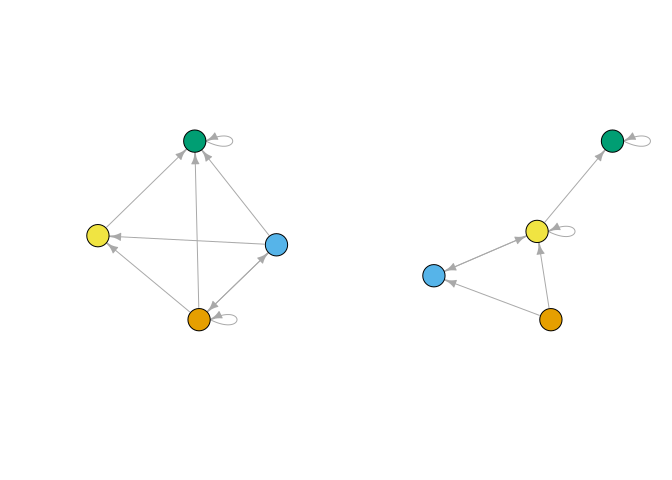
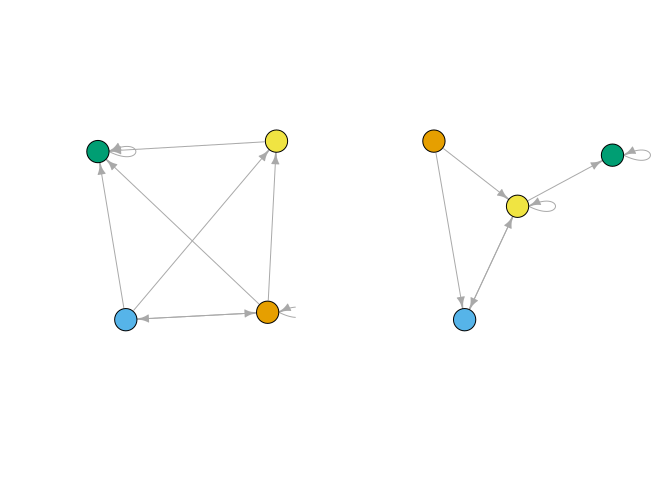
Initial version of degree connections complete.  Difficult to see edges between blocks in reduced network.

diff --git a/README.md b/README.md
@@ -5,19 +5,16 @@
 
 I’m updating `concorR` to generate a method for making reduced networks
 that connects blocks based on *degree* rather than just *density*.
-Functions that are being updated are: - `make_blk` in the
-`CONCOR_blockmodeling.R` file. - `make_reduced` in the
-`CONCOR_blockmodeling.R` file.
+Functions that are being updated are:
+
+  - `make_blk` in the `CONCOR_blockmodeling.R` file.
+  - `make_reduced` in the `CONCOR_blockmodeling.R` file.
+
+<!-- end list -->
 
 ``` r
 # install.packages("devtools")
 devtools::install_github("sfwolfphys/concorR")
-
-## Load the package
-library(concorR)
-
-## Update to local versions of the important functions:
-source('./R/CONCOR_blockmodeling.R')
 ```
 
 ## Example
@@ -26,7 +23,13 @@ This is a basic example which shows a common task: using CONCOR to
 partition a single adjacency matrix.
 
 ``` r
+## Load the package
 library(concorR)
+
+## Update to local versions of the important functions:
+source('./R/CONCOR_blockmodeling.R')
+
+## Simple Example
 a <- matrix(c(0, 0, 0, 0, 1, 1, 0, 1, 0, 1, 1, 1, 0, 1, 1, 
                1, 0, 1, 0, 1, 1, 0, 0, 0, 0), ncol = 5)
 rownames(a) <- letters[1:5]
@@ -97,6 +100,32 @@ plot_reduced(r_igraph)
 ```
 
 <img src="man/figures/README-unnamed-chunk-3-1.png" width="100%" />
+
+### Additional parameters for making the reduced network
+
+In the prior example, the reduced network was created using an edge
+density threshold. For some applications, it may be preferred to use a
+degree-based measure instead. Therefore if the average degree from block
+a to block b is greater than the average outdegree of the network, we
+will draw the edge in.
+
+``` r
+(r_mat_deg <- make_reduced(list(a), nsplit = 1, connect = 'degree'))
+#> $reduced_mat
+#> $reduced_mat[[1]]
+#>         Block 1 Block 2
+#> Block 1       0       0
+#> Block 2       1       0
+#> 
+#> 
+#> $deg
+#> [1] 2.4
+r_deg_igraph <- make_reduced_igraph(r_mat_deg$reduced_mat[[1]])
+
+plot_reduced(r_deg_igraph)
+```
+
+<img src="man/figures/README-unnamed-chunk-4-1.png" width="100%" />
 
 ## Example 2: Krackhardt high-tech managers
 
@@ -195,6 +224,42 @@ plot_reduced(gboth[[2]])
 ```
 
 <img src="man/figures/README-krackhardt-reduced-multi-1.png" width="100%" />
+
+``` r
+par(mfrow = c(1,1))
+```
+
+### Reduced networks using degree criterion
+
+``` r
+red1d <- make_reduced(list(m1), nsplit = 2, connect='degree')
+red2d <- make_reduced(list(m2), nsplit = 2, connect='degree')
+
+gred1d <- make_reduced_igraph(red1d$reduced_mat[[1]])
+gred2d <- make_reduced_igraph(red2d$reduced_mat[[1]])
+
+par(mfrow = c(1, 2))
+plot_reduced(gred1d)
+plot_reduced(gred2d)
+```
+
+<img src="man/figures/README-krackhardt-reduced-single-degree-1.png" width="100%" />
+
+``` r
+par(mfrow = c(1,1))
+```
+
+with the multi-relation version:
+
+``` r
+redbothd <- make_reduced(list(m1, m2), nsplit = 2, connect='degree')
+gbothd <- lapply(redbothd$reduced_mat, make_reduced_igraph)
+par(mfrow = c(1, 2))
+plot_reduced(gbothd[[1]])
+plot_reduced(gbothd[[2]])
+```
+
+<img src="man/figures/README-krackhardt-reduced-multi-degree-1.png" width="100%" />
 
 ``` r
 par(mfrow = c(1,1))
